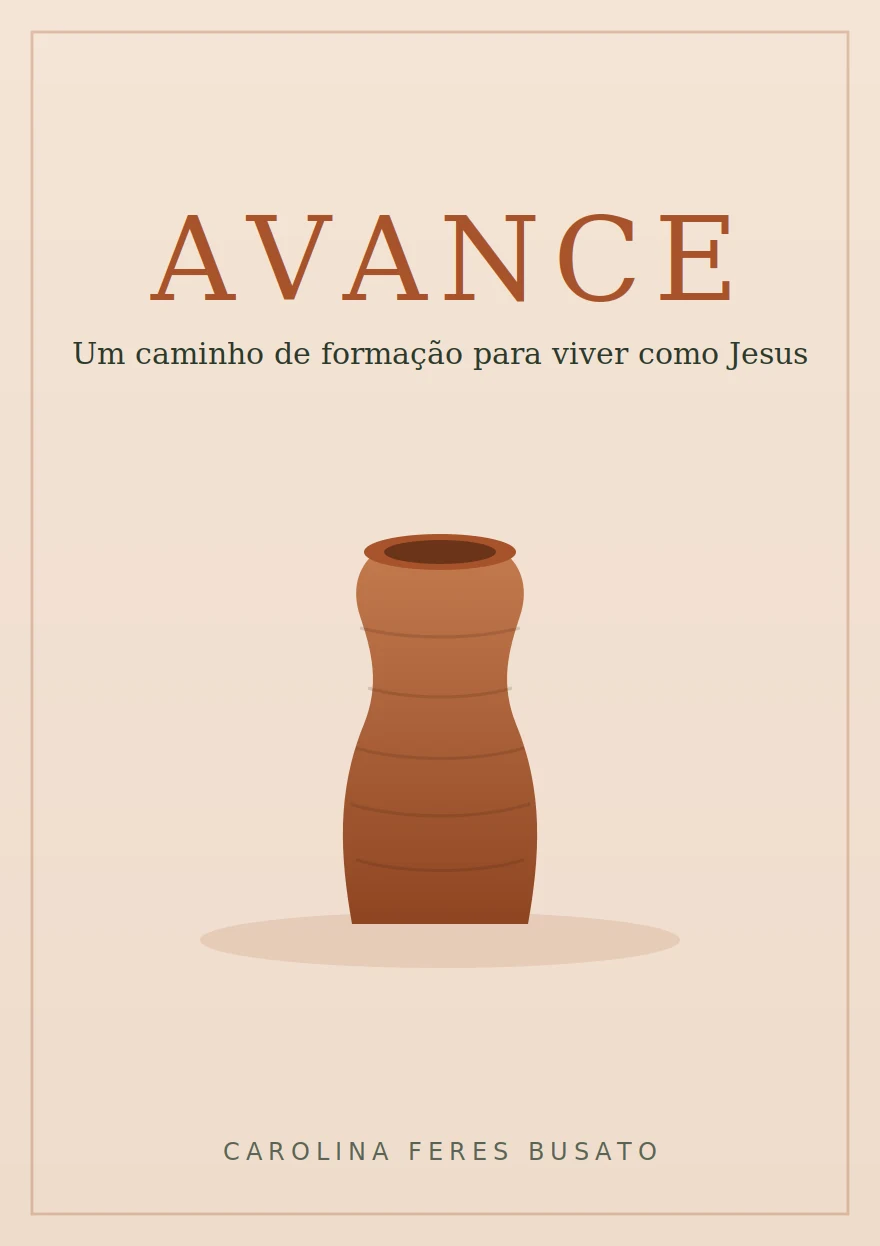
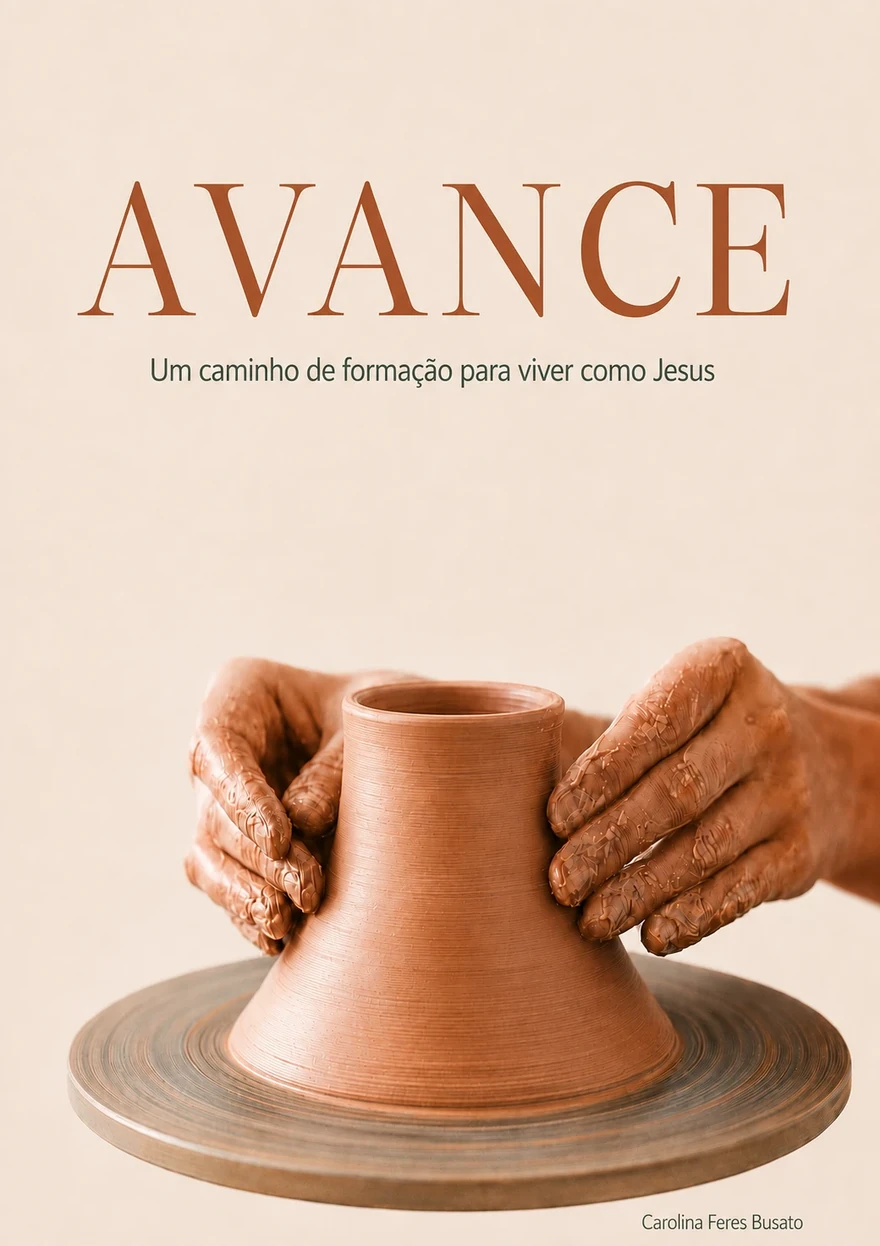
Replace hero and cover placeholders with real photos
Swap the generated pote.webp/capa.webp illustrations for the actual
pottery-wheel photo and AVANCE book cover, and drop the now-resolved
placeholder note from the README.

Claude-Session: https://claude.ai/code/session_012LiAJ5ZSsHiXtbDAGaB9DE

diff --git a/index.html b/index.html
@@ -326,7 +326,7 @@ p{margin:0 0 20px}
     </div>
   </div>
   <div class="hero-photo">
-    <img src="pote.webp" width="720" height="493" alt="Mãos moldando um vaso de barro na roda do oleiro">
+    <img src="pote.webp" width="720" height="576" alt="Mãos moldando um vaso de barro na roda do oleiro">
   </div>
 </header>
 

diff --git a/README.md b/README.md
@@ -30,9 +30,6 @@ Site 100% estático — sem passo de build. O Vercel detecta automaticamente
 
 ## Pendências antes de publicar em produção
 
-- **`pote.webp`** e **`capa.webp`** são placeholders ilustrativos gerados a
-  partir da identidade visual do projeto (paleta terracota + motivo das
-  marcas do torno de oleiro). Substitua pelas fotos reais quando disponíveis.
 - **Foto da Carolina** (seção "Quem conduz"): hoje é um bloco de texto
   (`.portrait .ph`). Troque pelo `<img>` comentado em `index.html` assim que
   tiver a foto.
